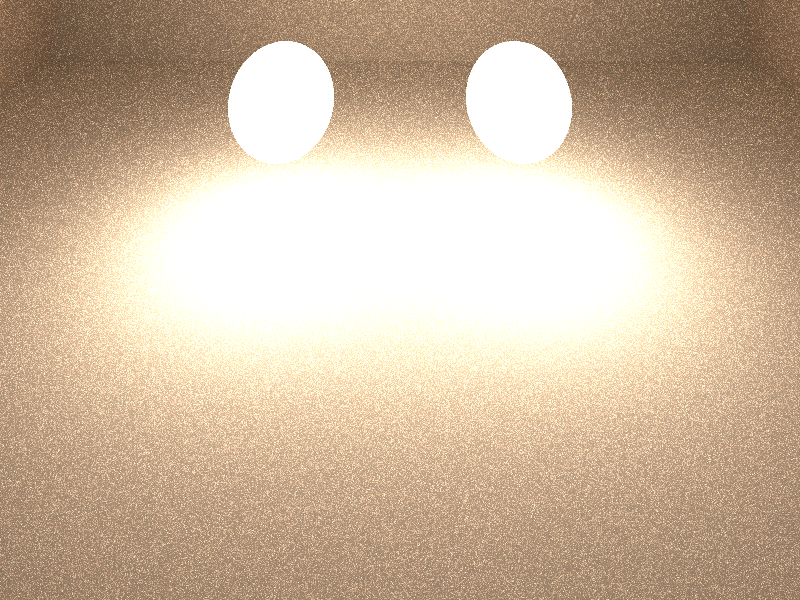
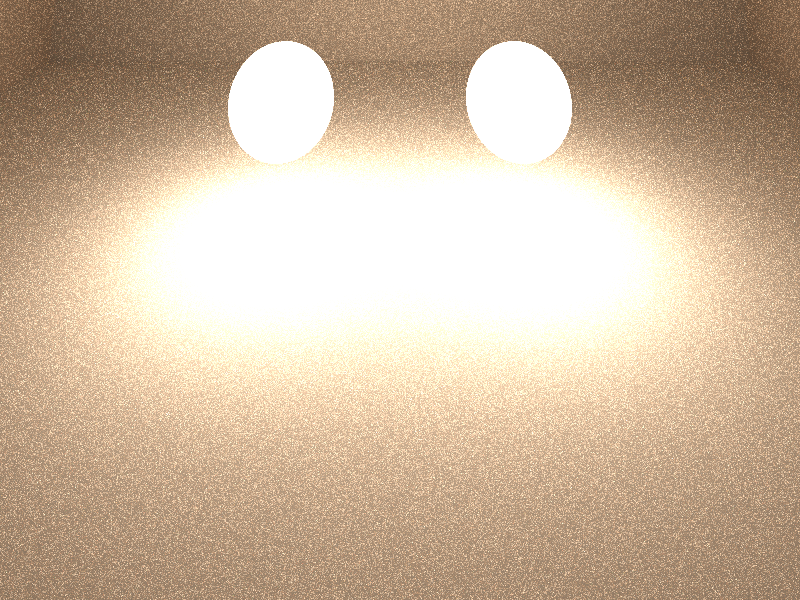
Reproducible default RNG seed (--seed flag) + refreshed screenshots
- src/main.c: fixed default seed 0x474C5421, --seed N / --seed 0 for time-based noise
- README: document --seed option
- Re-rendered 4x 800x600 screenshots (avg RGB matches results table)
- PROGRESS.md: log entry

diff --git a/src/main.c b/src/main.c
@@ -205,7 +205,8 @@ static scene_entry SCENES[] = {
 static void usage(const char *p) {
     fprintf(stderr, "Usage: %s [scene] [out.ppm] [spp] [options]\n", p);
     fprintf(stderr, "  scenes: cornell bedroom dining staircase (default cornell)\n");
-    fprintf(stderr, "  options: --scene NAME --out PATH --spp N --width W --height H --train N\n");
+    fprintf(stderr, "  options: --scene NAME --out PATH --spp N --width W --height H --train N --seed N\n");
+    fprintf(stderr, "  --seed: RNG seed (default 0x474C5421, reproducible); use --seed 0 for time-based noise\n");
 }
 
 int main(int argc, char **argv) {
@@ -213,6 +214,8 @@ int main(int argc, char **argv) {
     const char *out = "output.ppm";
     int spp = 16, W = 800, H = 600, train_iters = 2000;
     int out_set = 0;
+    unsigned int seed_opt = 0x474C5421u; /* fixed default: reproducible renders */
+    int seed_is_random = 0;
 
     for (int i = 1; i < argc; i++) {
         if (!strcmp(argv[i], "--scene") && i + 1 < argc) scene_name = argv[++i];
@@ -221,6 +224,10 @@ int main(int argc, char **argv) {
         else if (!strcmp(argv[i], "--width") && i + 1 < argc) W = atoi(argv[++i]);
         else if (!strcmp(argv[i], "--height") && i + 1 < argc) H = atoi(argv[++i]);
         else if (!strcmp(argv[i], "--train") && i + 1 < argc) train_iters = atoi(argv[++i]);
+        else if (!strcmp(argv[i], "--seed") && i + 1 < argc) {
+            seed_opt = (unsigned int)strtoul(argv[++i], NULL, 0);
+            if (seed_opt == 0) seed_is_random = 1;
+        }
         else if (!strcmp(argv[i], "--help") || !strcmp(argv[i], "-h")) { usage(argv[0]); return 0; }
         else if (argv[i][0] != '-') {
             /* positional: [scene-or-out] [spp-or-out] [spp] ; also handle scenes/x.glt */
@@ -251,7 +258,10 @@ int main(int argc, char **argv) {
     static glt_model m; /* ~9.5 MB: static, not stack (8 MB limit) */
     glt_init(&m);
 
-    g_seed = (unsigned int)time(NULL) ^ 0x9E3779B9u;
+    /* Fixed default seed => byte-identical output for identical flags.
+     * Per-row RNG streams derive from (seed, y) only, so results are
+     * independent of OpenMP thread count/scheduling. --seed 0 = time-based. */
+    g_seed = seed_is_random ? ((unsigned int)time(NULL) ^ 0x9E3779B9u) : seed_opt;
 
     /* ---- Phase A: seed Gaussian cache from scene surface samples ---- */
     {

diff --git a/PROGRESS.md b/PROGRESS.md
@@ -321,3 +321,23 @@
   10-02 → 10-03 added no content (PROGRESS.md-only appends). Left in
   history (rewriting pushed public history is worse); going forward,
   green re-verifications must NOT commit — only real changes get commits.
+
+## 2026-10-04 — Reproducible default seed + screenshot refresh
+- Found uncommitted `src/main.c` change: new `--seed N` flag with fixed
+  default `0x474C5421` (was `time(NULL)`-based). Per-row RNG streams
+  derive from `(seed, y)` only, so renders are now byte-identical for
+  identical flags and independent of OpenMP scheduling; `--seed 0`
+  restores old time-based noise. Usage text updated; README options line
+  documents `--seed`.
+- Verified: `TMPDIR=/root/tmpbuild make` warning-free (`/tmp` 100% full
+  again — same known tmpfs issue, workaround per 10-01 entry); smoke
+  test 200×150/4spp/train200 twice → identical md5
+  (`94c8b2deba941cc9e23c1db64a173306`), loss 1.10 (stable pred+1),
+  avg 91.4/82.3/68.7 (not black), ~3.0 Mrays/s, keep 0.9%.
+  `--seed 12345` → different checksum (flag works), `--seed 0` works.
+- Re-rendered all 4 scenes (800×600, 16 spp, train 1500): cornell
+  23.0s/2.46 Mrays/s (3051 alive), bedroom 24.2s/2.32, dining 26.4s/1.99
+  (2962 alive), staircase 23.1s/2.36 (2976 alive); `convert`ed PPM→PNG,
+  all PNG headers valid (800×600 RGB). Avg RGB matches README table
+  exactly (cornell 98/89/75, bedroom 126/96/74, dining 207/185/161,
+  staircase 134/134/150) — no table update needed.

diff --git a/README.md b/README.md
@@ -21,7 +21,9 @@ Requires `gcc` with OpenMP (`-fopenmp`, included in the Makefile).
 ```
 
 Options: `--scene cornell|bedroom|dining|staircase`, `--out PATH`, `--spp N`,
-`--width W`, `--height H`, `--train N` (GLT residual-training iterations).
+`--width W`, `--height H`, `--train N` (GLT residual-training iterations),
+`--seed N` (RNG seed, default `0x474C5421` for byte-identical reproducible
+renders; use `--seed 0` for time-based noise).
 
 Output is PPM (P6, gamma 2.0 via sqrt). Convert to PNG if available:
 
